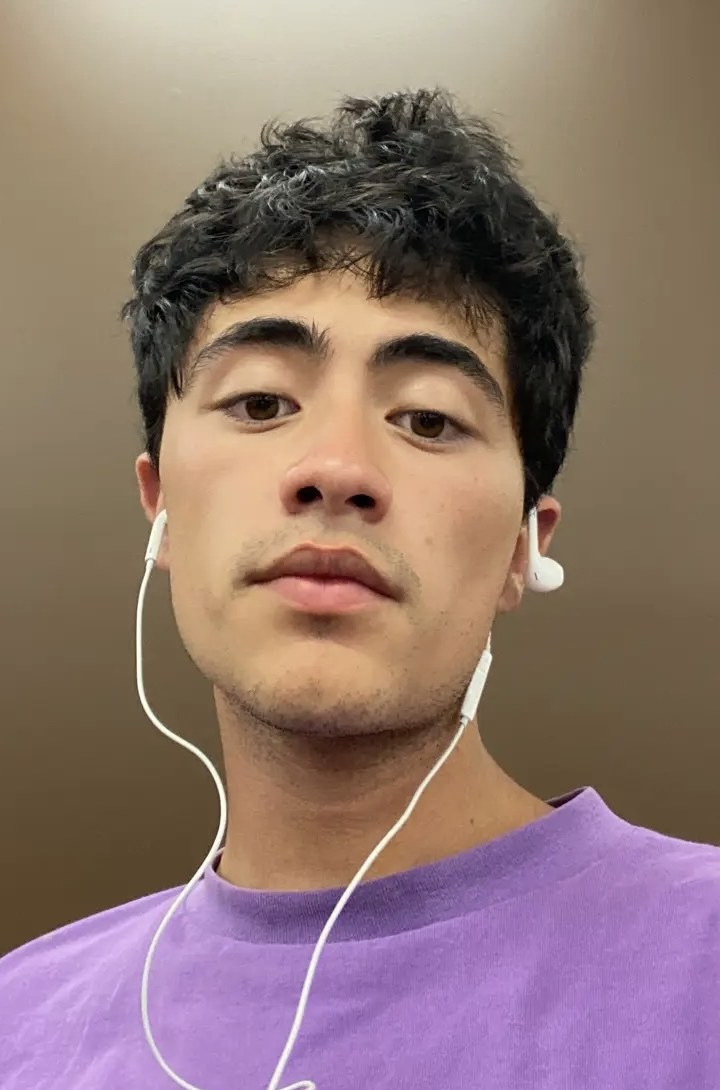
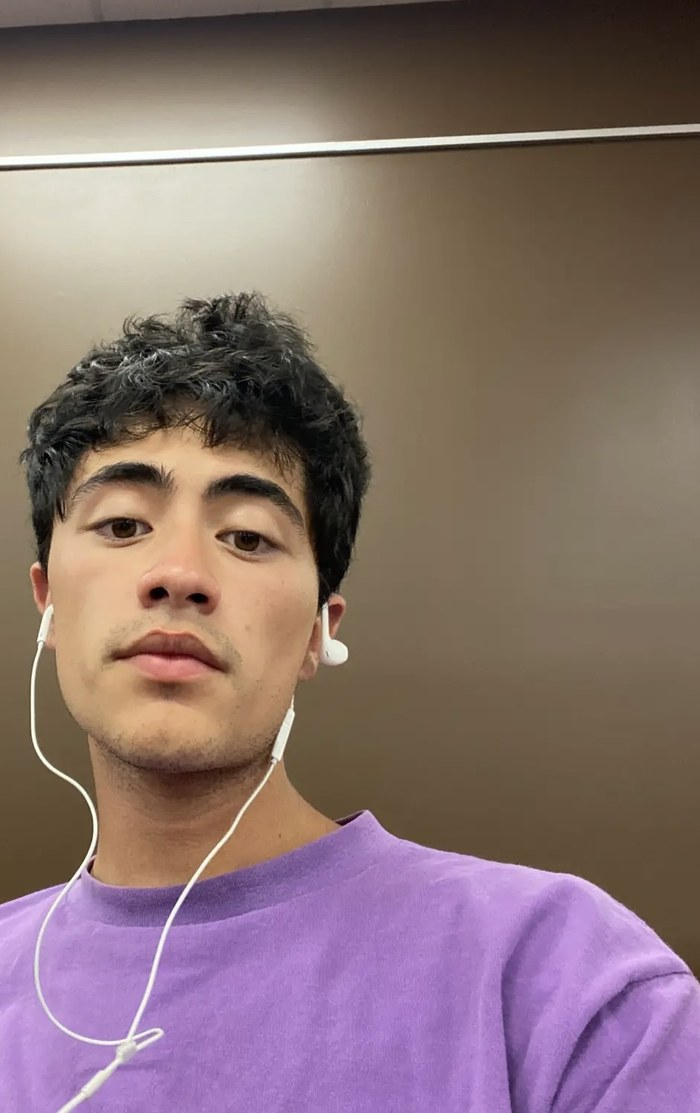
About: zoomed-out photo, cleaner text layout; LIVE + 'views on videos I've edited'; credits on one line
Claude-Session: https://claude.ai/code/session_01SCASvz9UrD43yJUg1rgY1U

diff --git a/public/assets/style.css b/public/assets/style.css
@@ -35,7 +35,7 @@ button { font: inherit; color: inherit; }
 .home { display: flex; flex-wrap: wrap; gap: 28px; padding-top: 16px; }
 .home__left, .home__right { flex: 1 1 440px; min-width: 0; }
 .home__left { display: flex; flex-direction: column; gap: 14px; container-type: inline-size; }
-.home__right { display: flex; flex-direction: column; }
+.home__right { display: flex; flex-direction: column; container-type: inline-size; }
 .foot__ig--corner { margin-top: auto; align-self: flex-end; padding-top: 12px; }
 
 .hero { position: relative; border-radius: 24px; overflow: hidden; aspect-ratio: 4 / 3; background: var(--tint); }
@@ -47,17 +47,22 @@ button { font: inherit; color: inherit; }
 .row--button { all: unset; box-sizing: border-box; cursor: pointer; width: 100%; display: flex; justify-content: space-between; align-items: baseline; gap: 12px; border-top: var(--rule); padding: 10px 0; min-height: 44px; }
 .row--button:hover .row__label { color: var(--red); }
 .row--button:focus-visible { outline: 2px solid var(--red); outline-offset: 2px; }
-.about-panel { position: absolute; inset: 0; z-index: 2; background: var(--paper); border: var(--rule); border-radius: 24px; padding: clamp(12px, 1.6vw, 18px); box-sizing: border-box; display: grid; grid-template-columns: 34% 1fr; gap: clamp(14px, 1.8vw, 22px); align-items: center; animation: fadeIn .35s ease; }
-.about-panel__pic { width: 100%; height: 100%; object-fit: cover; object-position: 50% 30%; border-radius: 14px; display: block; }
-.about-panel__body { display: flex; flex-direction: column; gap: 12px; padding-right: clamp(4px, 1vw, 12px); }
+.about-panel { position: absolute; inset: 0; z-index: 2; background: var(--paper); border: var(--rule); border-radius: 24px; padding: 14px; box-sizing: border-box; display: grid; grid-template-columns: 44% 1fr; gap: clamp(16px, 2vw, 26px); align-items: center; animation: fadeIn .35s ease; }
 .about-panel[hidden] { display: none; }
-.about-panel__text { margin: 0; font-size: clamp(14px, 1.15vw, 16.5px); line-height: 1.4; letter-spacing: -0.01em; }
-.about-panel__quote { margin: 2px 0 0; font-size: 13px; }
+.about-panel__pic { width: 100%; height: 100%; object-fit: cover; object-position: 0% 40%; border-radius: 14px; display: block; }
+.about-panel__body { display: flex; flex-direction: column; padding-right: clamp(4px, 1vw, 14px); }
+.about-panel__lead { margin: 0 0 12px; font-size: clamp(16px, 1.45vw, 19px); line-height: 1.35; letter-spacing: -0.015em; }
+.about-panel__text { margin: 0; font-size: clamp(13.5px, 1.1vw, 15px); line-height: 1.45; color: var(--dim); }
+.about-panel__text a { color: var(--ink); }
+.about-panel__rule { border: none; border-top: 1px solid rgba(28,28,26,.25); margin: 16px 0 14px; width: 100%; }
+.about-panel__quote { margin: 0 0 10px; font-size: clamp(13.5px, 1.1vw, 15px); }
+.about-panel__quote .mono { font-size: 12px; }
+.about-panel__tools { margin: 0; font-size: 11.5px; line-height: 1.6; }
 /* phones: the box grows to fit the text instead of squeezing it */
 @media (max-width: 640px) {
   .hero:has(.about-panel:not([hidden])) { aspect-ratio: auto; }
   .about-panel { position: relative; grid-template-columns: 34% 1fr; align-items: start; }
-  .about-panel__pic { height: auto; aspect-ratio: 3 / 4; }
+  .about-panel__pic { height: auto; aspect-ratio: 3 / 4.5; }
 }
 .views { border-top: var(--rule); padding-top: 10px; }
 .views__line { display: flex; align-items: baseline; gap: 10px; flex-wrap: wrap; }
@@ -68,7 +73,12 @@ button { font: inherit; color: inherit; }
 .sr-only { position: absolute; width: 1px; height: 1px; overflow: hidden; clip: rect(0 0 0 0); white-space: nowrap; }
 @media (prefers-reduced-motion: reduce) { .roll-col { transition: none; } }
 .views__label { font: 400 16px var(--mono); color: var(--dim); }
-.views__units { all: unset; cursor: pointer; display: inline-flex; align-items: baseline; gap: 8px; min-height: 32px; padding: 6px 0 0; font: 400 clamp(15px, 3.4cqw, 20px) var(--mono); color: var(--dim); }
+.views__meta { display: flex; align-items: baseline; gap: 14px; flex-wrap: wrap; padding-top: 6px; }
+.live { display: inline-flex; align-items: center; gap: 6px; font: 500 11px var(--mono); text-transform: uppercase; letter-spacing: .08em; color: var(--red); }
+.live__dot { width: 7px; height: 7px; border-radius: 50%; background: var(--red); animation: live-pulse 2s ease-in-out infinite; }
+@keyframes live-pulse { 50% { opacity: .25; } }
+@media (prefers-reduced-motion: reduce) { .live__dot { animation: none; } }
+.views__units { all: unset; cursor: pointer; display: inline-flex; align-items: baseline; gap: 8px; min-height: 28px; padding: 0; font: 400 clamp(13px, 2.9cqw, 17px) var(--mono); color: var(--dim); }
 .views__units:hover { color: var(--ink); }
 .views__cycle { display: inline-block; transition: transform .4s; }
 .views__units:hover .views__cycle { transform: rotate(180deg); }
@@ -90,14 +100,16 @@ details[open] > .row .mono::after { content: "−"; }
 .about p { margin: 0; }
 
 .foot { border-top: var(--rule); padding-top: 12px; display: flex; justify-content: space-between; align-items: flex-end; gap: 16px; }
-.foot [data-edited-for] { flex: 1; min-width: 0; line-height: 1.7; }
+.foot [data-edited-for] { flex: 1; min-width: 0; line-height: 1.7; font-size: 11.5px; }
 .foot__ig { flex: 0 0 auto; line-height: 1; }
-.credit { display: inline-flex; align-items: center; gap: 5px; color: inherit; text-decoration: none; white-space: nowrap; }
+.credit { display: inline-flex; align-items: center; gap: 4px; color: inherit; text-decoration: none; white-space: nowrap; }
 a.credit:hover { color: var(--red); }
 .credit-group { white-space: nowrap; }
-.credit__sep { margin: 0 2px 0 6px; }
+.credit-names { white-space: nowrap; }
+@container (max-width: 490px) { .credit-names { white-space: normal; } }
+.credit__sep { margin: 0 1px 0 5px; }
 .credit--more { text-decoration: underline; }
-.credit__pic { width: 16px; height: 16px; border-radius: 50%; object-fit: cover; filter: grayscale(1) contrast(1.1); transition: filter .2s; }
+.credit__pic { width: 14px; height: 14px; border-radius: 50%; object-fit: cover; filter: grayscale(1) contrast(1.1); transition: filter .2s; }
 a.credit:hover .credit__pic { filter: none; }
 .foot__ig { font-size: 24px; }
 

diff --git a/public/index.html b/public/index.html
@@ -33,10 +33,11 @@
         <div class="about-panel" id="about" data-about hidden>
           <img class="about-panel__pic" src="/assets/about.jpg" alt="Alex Gil in a purple t-shirt with earbuds" loading="lazy">
           <div class="about-panel__body">
-            <p class="about-panel__text">I edit YouTube videos for creators. I make the story make sense and the funny parts funnier.</p>
+            <p class="about-panel__lead">I edit YouTube videos for creators. I make the story make sense and the funny parts funnier.</p>
             <p class="about-panel__text">Also covers, merch, photos, and songs as <a href="https://aldercote.online/">Alder Cote</a>.</p>
-            <p class="about-panel__quote mono">“Rated #1 video editor.” — my mom</p>
-            <p class="mono dim">Premiere Pro · After Effects · Photoshop · Illustrator</p>
+            <hr class="about-panel__rule">
+            <p class="about-panel__quote">“Rated #1 video editor.”<span class="mono dim"> — my mom</span></p>
+            <p class="about-panel__tools mono dim">Premiere Pro · After Effects<br>Photoshop · Illustrator</p>
           </div>
         </div>
       </div>
@@ -44,10 +45,13 @@
       <div class="views">
         <span class="views__num" data-views>9,502,400</span>
         <!-- tap to switch between "views" and the joke units -->
-        <button class="views__units" data-units type="button" aria-label="Show views in other units">
-          <span data-units-text>views</span>
-          <span class="views__cycle" aria-hidden="true">↻</span>
-        </button>
+        <div class="views__meta">
+          <span class="live" title="Updates live from YouTube"><span class="live__dot" aria-hidden="true"></span>live</span>
+          <button class="views__units" data-units type="button" aria-label="Show views in other units">
+            <span data-units-text>views on videos I've edited</span>
+            <span class="views__cycle" aria-hidden="true">↻</span>
+          </button>
+        </div>
       </div>
     </div>
 

diff --git a/public/assets/app.js b/public/assets/app.js
@@ -130,8 +130,10 @@
     if (!list.length) return;
     var show = SETTINGS.creditsShown;
     node.textContent = "";
-    node.appendChild(document.createTextNode("edited for: "));
     var shown = list.slice(0, show), hasMore = list.length > show;
+    var names = el("span", "credit-names");
+    names.appendChild(document.createTextNode("edited for: "));
+    node.appendChild(names);
     shown.forEach(function (c, i) {
       var item = el(c.url ? "a" : "span", "credit");
       if (c.url) { item.href = c.url; item.target = "_blank"; item.rel = "noopener"; }
@@ -149,10 +151,11 @@
       var group = el("span", "credit-group");
       group.appendChild(item);
       if (i < shown.length - 1 || hasMore) group.appendChild(el("span", "credit__sep", "·"));
-      node.appendChild(group);
-      node.appendChild(document.createTextNode(" "));
+      names.appendChild(group);
+      names.appendChild(document.createTextNode(" "));
     });
     if (hasMore) {
+      node.appendChild(document.createTextNode(" ")); // a place "+ more" can wrap if it doesn't fit
       var more = el("a", "credit credit--more", "+ more");
       more.href = "/video/";
       node.appendChild(more);
@@ -186,7 +189,7 @@
     function units() {
       var years = Math.round((t * SETTINGS.avgMinutesWatched) / 525960);
       var list = [
-        "views",
+        "views on videos I've edited",
         "≈ " + years.toLocaleString("en-US") + " years of people watching",
         "≈ " + Math.round(t / 70000).toLocaleString("en-US") + " sold-out SoFi Stadiums"
       ];
